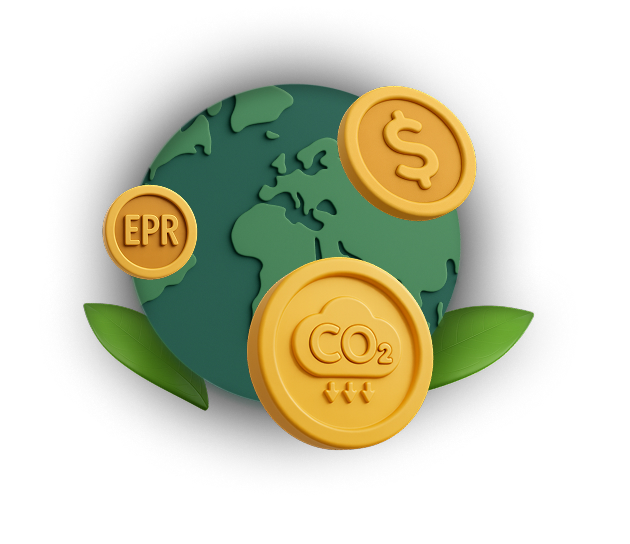
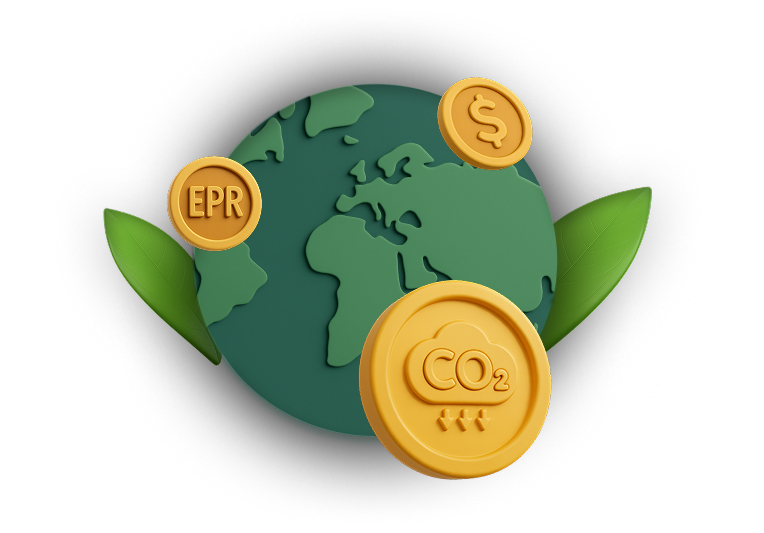
conditional palceholder

Changed region(s): [[0.1206, 0.1201, 0.8746, 0.9306]]

diff --git a/src/ui/sections/hero/components/EarthAnimation.tsx b/src/ui/sections/hero/components/EarthAnimation.tsx
@@ -2,60 +2,69 @@
 
 import { AnimatePresence, motion } from "motion/react";
 import { cn } from "@/utils/cn";
-import { LottiePlayer, LottieWrapper } from "@/components/lottie";
+import { LottiePlayer } from "@/components/lottie";
 import { useAnimationData } from "@/components/lottie/hooks/useAnimationData";
-import { useScreenSize } from "@/hooks/useScreenSize";
 import Image from "next/image";
+import useIsMobile from "@/hooks/useIsMobile";
 
 export function EarthAnimation({ className }: { className?: string }) {
-  const { isMobile } = useScreenSize();
+  const isMobile = useIsMobile();
   const EARTH_ANIMATION_URL = isMobile
     ? "/assets/lottie/mobile/earth-mobile.json"
     : "/assets/lottie/earth.json";
   const animationData = useAnimationData(EARTH_ANIMATION_URL);
 
   return (
-    <LottieWrapper
-      aspectRatio="1/1"
-      className={cn("w-full max-w-[600px]", className)}
-      skeletonClassName="bg-gray-100/50 dark:bg-gray-800/50"
+    <div
+      className={cn(
+        "w-full flex items-center justify-center aspect-square",
+        className
+      )}
     >
-      <div className="w-full h-full">
-        <AnimatePresence mode="wait">
-          {!animationData ? (
-            <motion.div
-              key="placeholder"
-              initial={{ opacity: 1 }}
-              exit={{ opacity: 0 }}
-              className="w-full h-full"
-            >
-              <Image
-                src="/assets/hero/earth.jpg"
-                alt="Earth Animation Placeholder"
-                width={600}
-                height={600}
-                className="w-full h-full object-cover rounded-lg"
-                priority
-              />
-            </motion.div>
-          ) : (
-            <motion.div
-              key="lottie"
-              initial={{ opacity: 0 }}
-              animate={{ opacity: 1 }}
-              transition={{ duration: 0.5 }}
-              className="w-full h-full"
-            >
+      <AnimatePresence mode="wait">
+        {!animationData ? (
+          <motion.div
+            key="placeholder"
+            initial={{ opacity: 1 }}
+            exit={{ opacity: 0 }}
+            className="w-full h-full flex items-center justify-center"
+          >
+            <Image
+              src="/assets/hero/earth-mobile.jpg"
+              alt="Earth Animation Placeholder"
+              width={600}
+              height={600}
+              className="md:hidden w-full h-auto min-w-[450px] object-cover rounded-lg"
+              priority
+            />
+            <Image
+              src="/assets/hero/earth.jpg"
+              alt="Earth Animation Placeholder"
+              width={600}
+              height={600}
+              className="hidden md:block w-full h-full object-contain rounded-lg"
+              priority
+            />
+          </motion.div>
+        ) : (
+          <motion.div
+            key="lottie"
+            initial={{ opacity: 0 }}
+            animate={{ opacity: 1 }}
+            transition={{ duration: 0.5 }}
+            className="w-full h-full relative"
+          >
+            <div className="w-full h-full">
               <LottiePlayer
-                animationData={animationData}
+                animationData={animationData!}
                 className="w-full h-full"
                 autoplay={true}
                 loop={false}
               />
-            </motion.div>
-          )}
-        </AnimatePresence>
-      </div>
-    </LottieWrapper>
+            </div>
+          </motion.div>
+        )}
+      </AnimatePresence>
+    </div>
   );
 }

diff --git a/src/ui/sections/hero/components/ContentSection.tsx b/src/ui/sections/hero/components/ContentSection.tsx
@@ -6,22 +6,22 @@ export function ContentSection() {
   return (
     <div className="flex flex-col gap-2 my-4">
       {/* Tagline */}
-      <h1 className="text-lg lg:text-5xl xl:text-6xl font-medium text-mint-950 leading-tight">
+      <h1 className="text-lg md:text-4xl lg:text-5xl xl:text-6xl font-medium text-mint-950 leading-tight">
         Champion <GradientText>Circular Economy</GradientText>, One Scrap at a
         Time.
       </h1>
 
       {/* SubTag */}
-      <h2 className="text-base lg:text-2xl font-ibm italic text-mint-950 font-semibold tracking-tighter">
+      <h2 className="text-base md:text-lg lg:text-2xl font-ibm italic text-mint-950 font-semibold tracking-tighter">
         Waste Management: Measured, Monetized and Compliant!
       </h2>
 
       {/* Description */}
-      <p className="text-sm lg:text-lg text-mint-950 max-w-2xl">
+      <p className="text-sm md:text-base lg:text-lg text-mint-950 max-w-2xl">
         We seamlessly integrate Circularity Systems into your business, lowering
         its costs and emissions while fulfilling regulations.
       </p>
-      <p className="text-sm lg:text-lg text-mint-950 max-w-2xl">
+      <p className="text-sm md:text-base lg:text-lg text-mint-950 max-w-2xl">
         Are you a recycler or a trader? Join our vendor network Today !
       </p>
 

diff --git a/src/ui/sections/hero/index.tsx b/src/ui/sections/hero/index.tsx
@@ -10,7 +10,7 @@ export default function HeroSection() {
   return (
     <section className="relative w-full overflow-hidden">
       <Container>
-        <div className="grid grid-cols-1 lg:grid-cols-2 gap-8 min-h-[calc(100vh-80px)]">
+        <div className="grid grid-cols-1 lg:grid-cols-2 gap-8 md:gap-4 lg:gap-8">
           {/* Content */}
           <div className="flex flex-col justify-center space-y-8">
             <ContentSection />
@@ -18,7 +18,11 @@ export default function HeroSection() {
 
           {/* Animation */}
           <div className="relative lg:row-span-2 flex items-center justify-center">
-            <EarthAnimation className={cn("w-full max-w-[800px]")} />
+            <EarthAnimation
+              className={cn(
+                "w-full max-w-[400px] sm:max-w-[350px] md:max-w-[600px] lg:max-w-[500px]"
+              )}
+            />
           </div>
 
           {/* Stats */}

diff --git a/tailwind.config.ts b/tailwind.config.ts
@@ -12,8 +12,8 @@ const config: Config = {
   theme: {
     screens: {
       xs: "0px", // < 576px (Phones portrait)
-      sm: "576px", // ≥ 576px (Phones landscape, small tablets)
-      md: "768px", // ≥ 768px (Tablets portrait)
+      sm: "570px", // ≥ 576px (Phones landscape, small tablets)
+      md: "750px", // ≥ 768px (Tablets portrait)
       lg: "992px", // ≥ 992px (Tablets landscape, small laptops)
       xl: "1200px", // ≥ 1200px (Desktops, large laptops)
       "2xl": "1400px", // ≥ 1400px (Very large desktops, 4K displays)
@@ -21,8 +21,8 @@ const config: Config = {
     extend: {
       keyframes: {
         shimmer: {
-          '100%': {
-            transform: 'translateX(100%)',
+          "100%": {
+            transform: "translateX(100%)",
           },
         },
       },

diff --git a/src/ui/header/components/server/HeaderRoot.tsx b/src/ui/header/components/server/HeaderRoot.tsx
@@ -1,14 +1,12 @@
 import { SITE_NAVIGATION } from "@/constants/navigation";
-import { combineWithZIndex } from "@/utils/styles";
+import { Z_INDEX } from "@/constants/styles/z-index";
 import { HeaderContent } from "../client/HeaderContent";
 
 export default function Header() {
   return (
     <header
-      className={combineWithZIndex(
-        "sticky top-0 w-full border-b bg-white/80 backdrop-blur-sm",
-        "header"
-      )}
+      className="sticky top-0 w-full border-b bg-white/80 backdrop-blur-sm"
+      style={{ zIndex: Z_INDEX.header }}
     >
       <div>
         <HeaderContent items={SITE_NAVIGATION.items} />

diff --git a/src/hooks/useIsMobile.ts b/src/hooks/useIsMobile.ts
@@ -1,0 +1,24 @@
+import { useState, useEffect, useMemo } from "react";
+
+const useIsMobile = () => {
+  const [isMobile, setIsMobile] = useState(false);
+
+  const checkIsMobile = useMemo(() => () => window.innerWidth <= 768, []);
+
+  useEffect(() => {
+    const handleResize = () => {
+      setIsMobile(checkIsMobile());
+    };
+
+    handleResize();
+    window.addEventListener("resize", handleResize);
+
+    return () => {
+      window.removeEventListener("resize", handleResize);
+    };
+  }, [checkIsMobile]);
+
+  return isMobile;
+};
+
+export default useIsMobile;

diff --git a/src/ui/sections/hero/components/StatsSection.tsx b/src/ui/sections/hero/components/StatsSection.tsx
@@ -20,7 +20,7 @@ const STATS = [
 
 export function StatsSection() {
   return (
-    <div className="grid grid-cols-1 sm:grid-cols-3 gap-4 py-4">
+    <div className="grid grid-cols-1 md:grid-cols-3 gap-4 py-4">
       {STATS.map((stat, index) => (
         <StatCard key={index} value={stat.value} label={stat.label} />
       ))}
